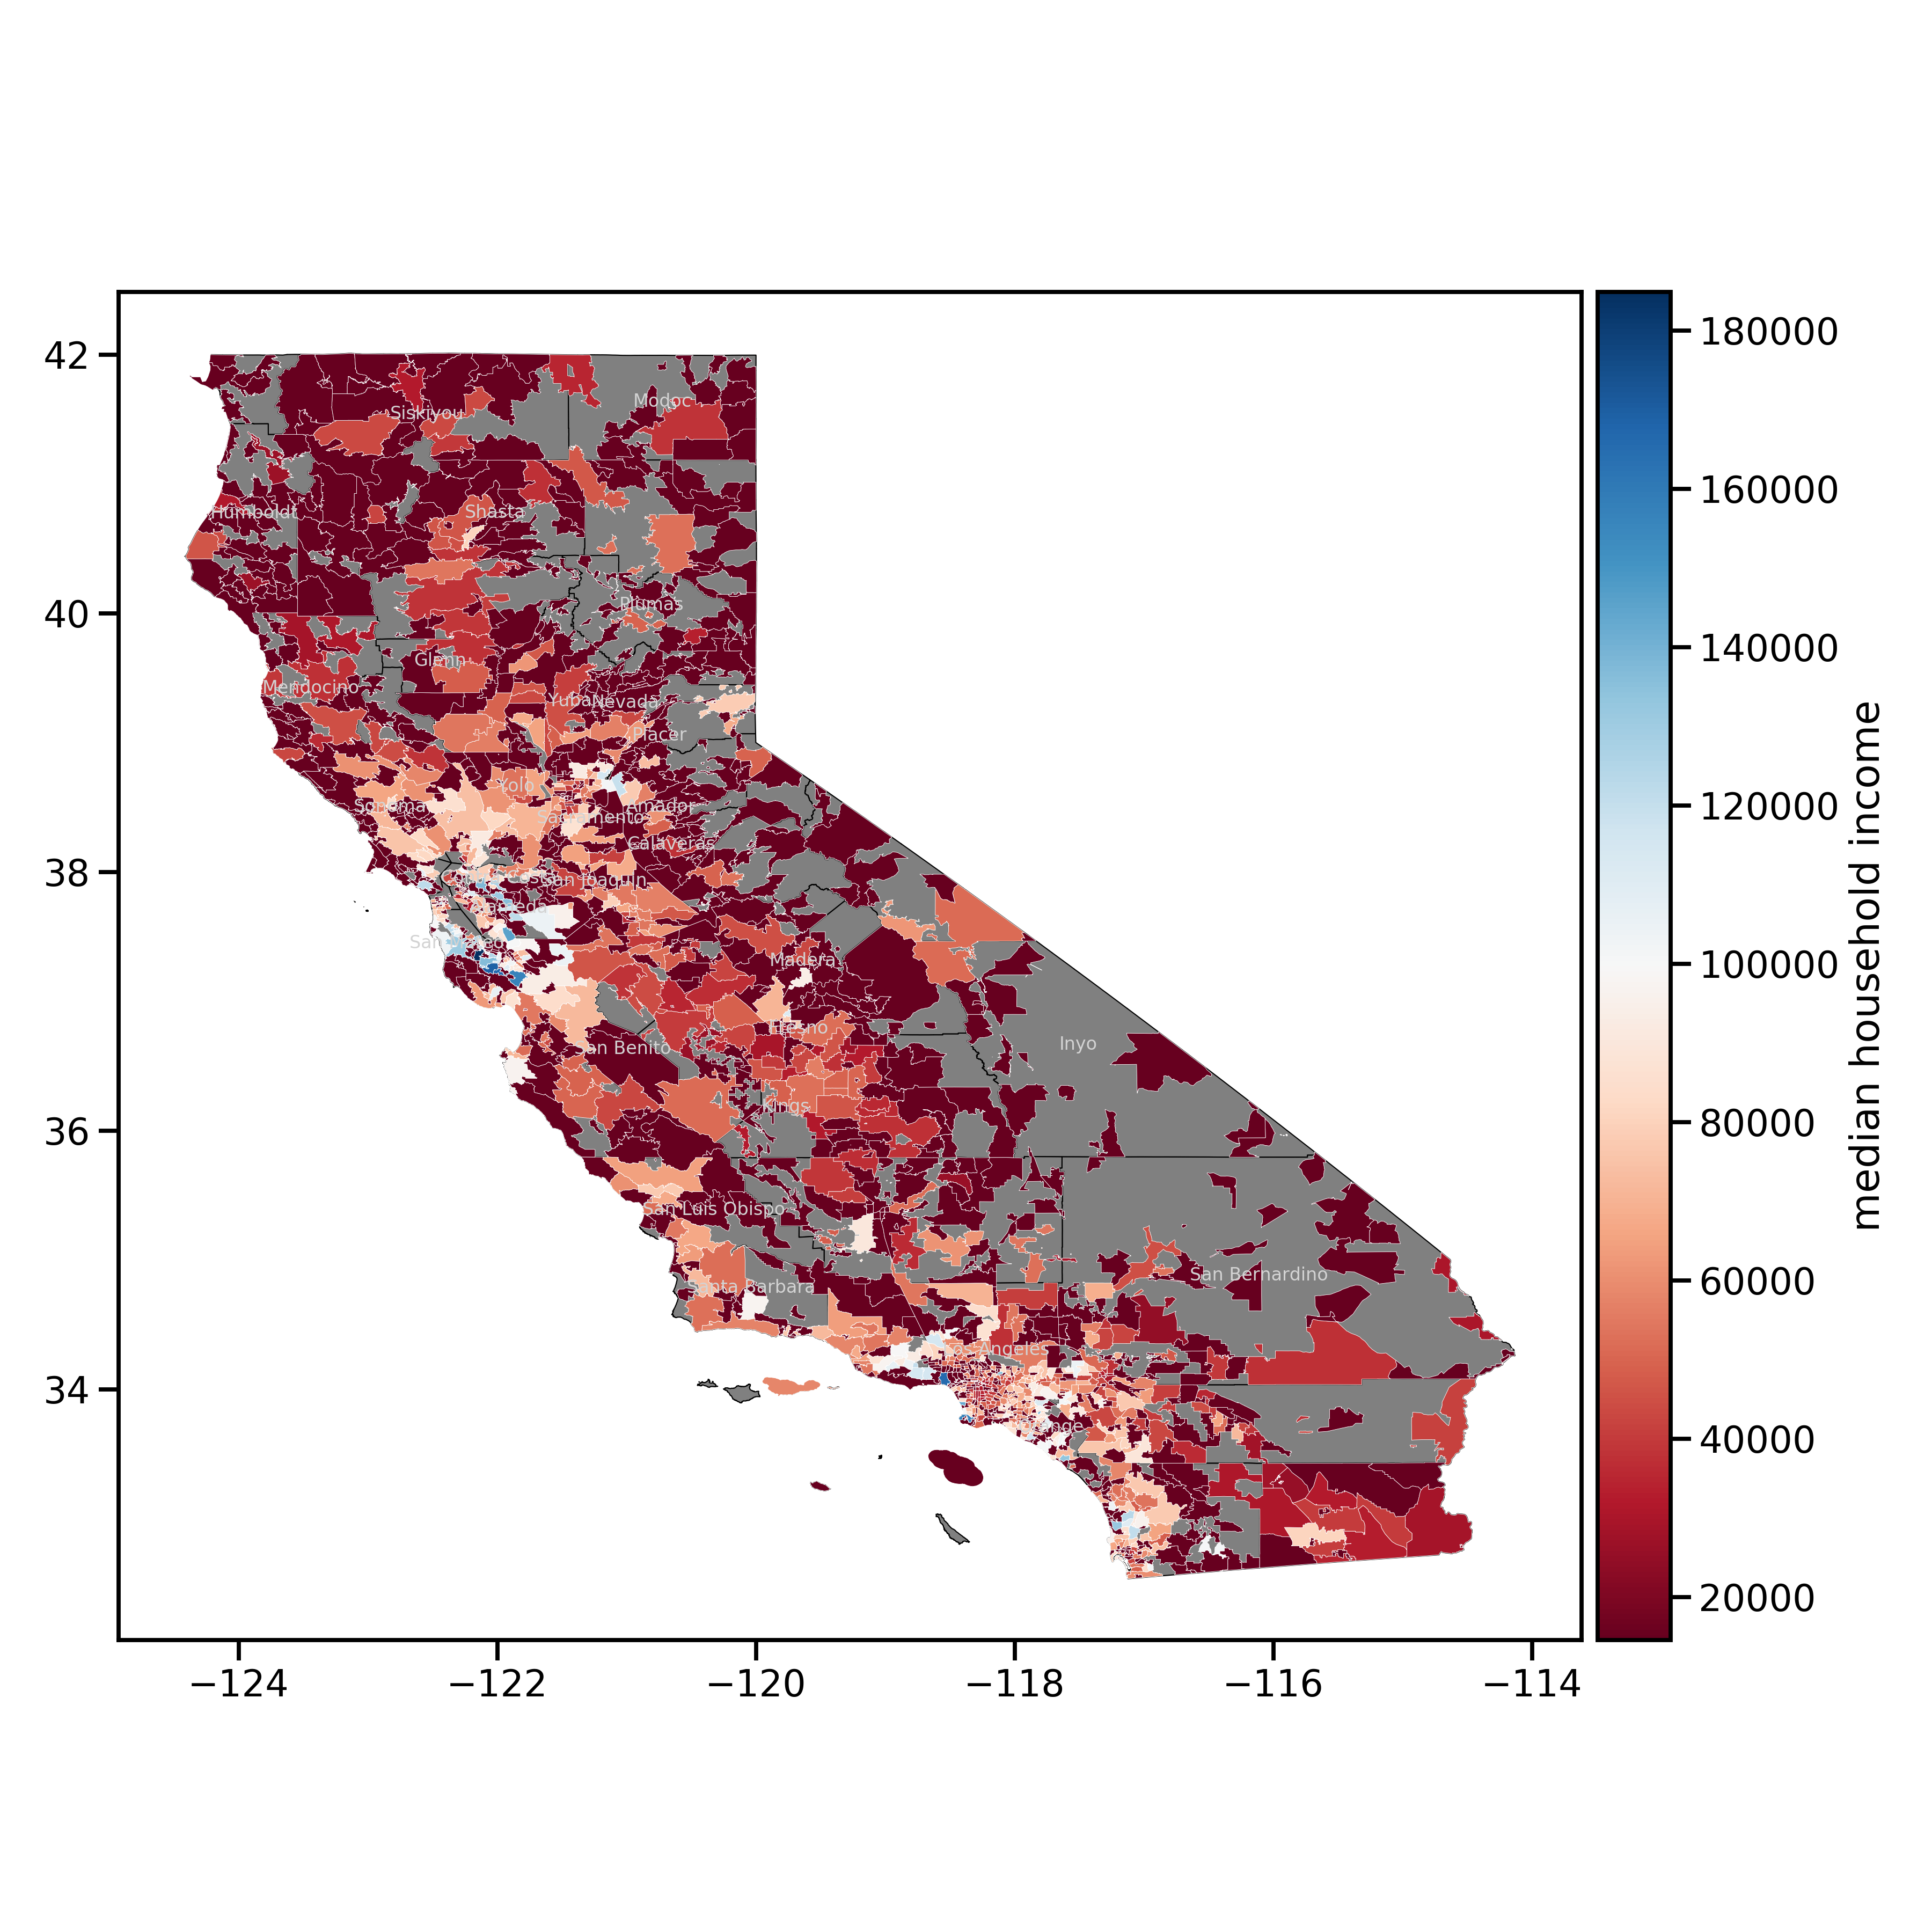
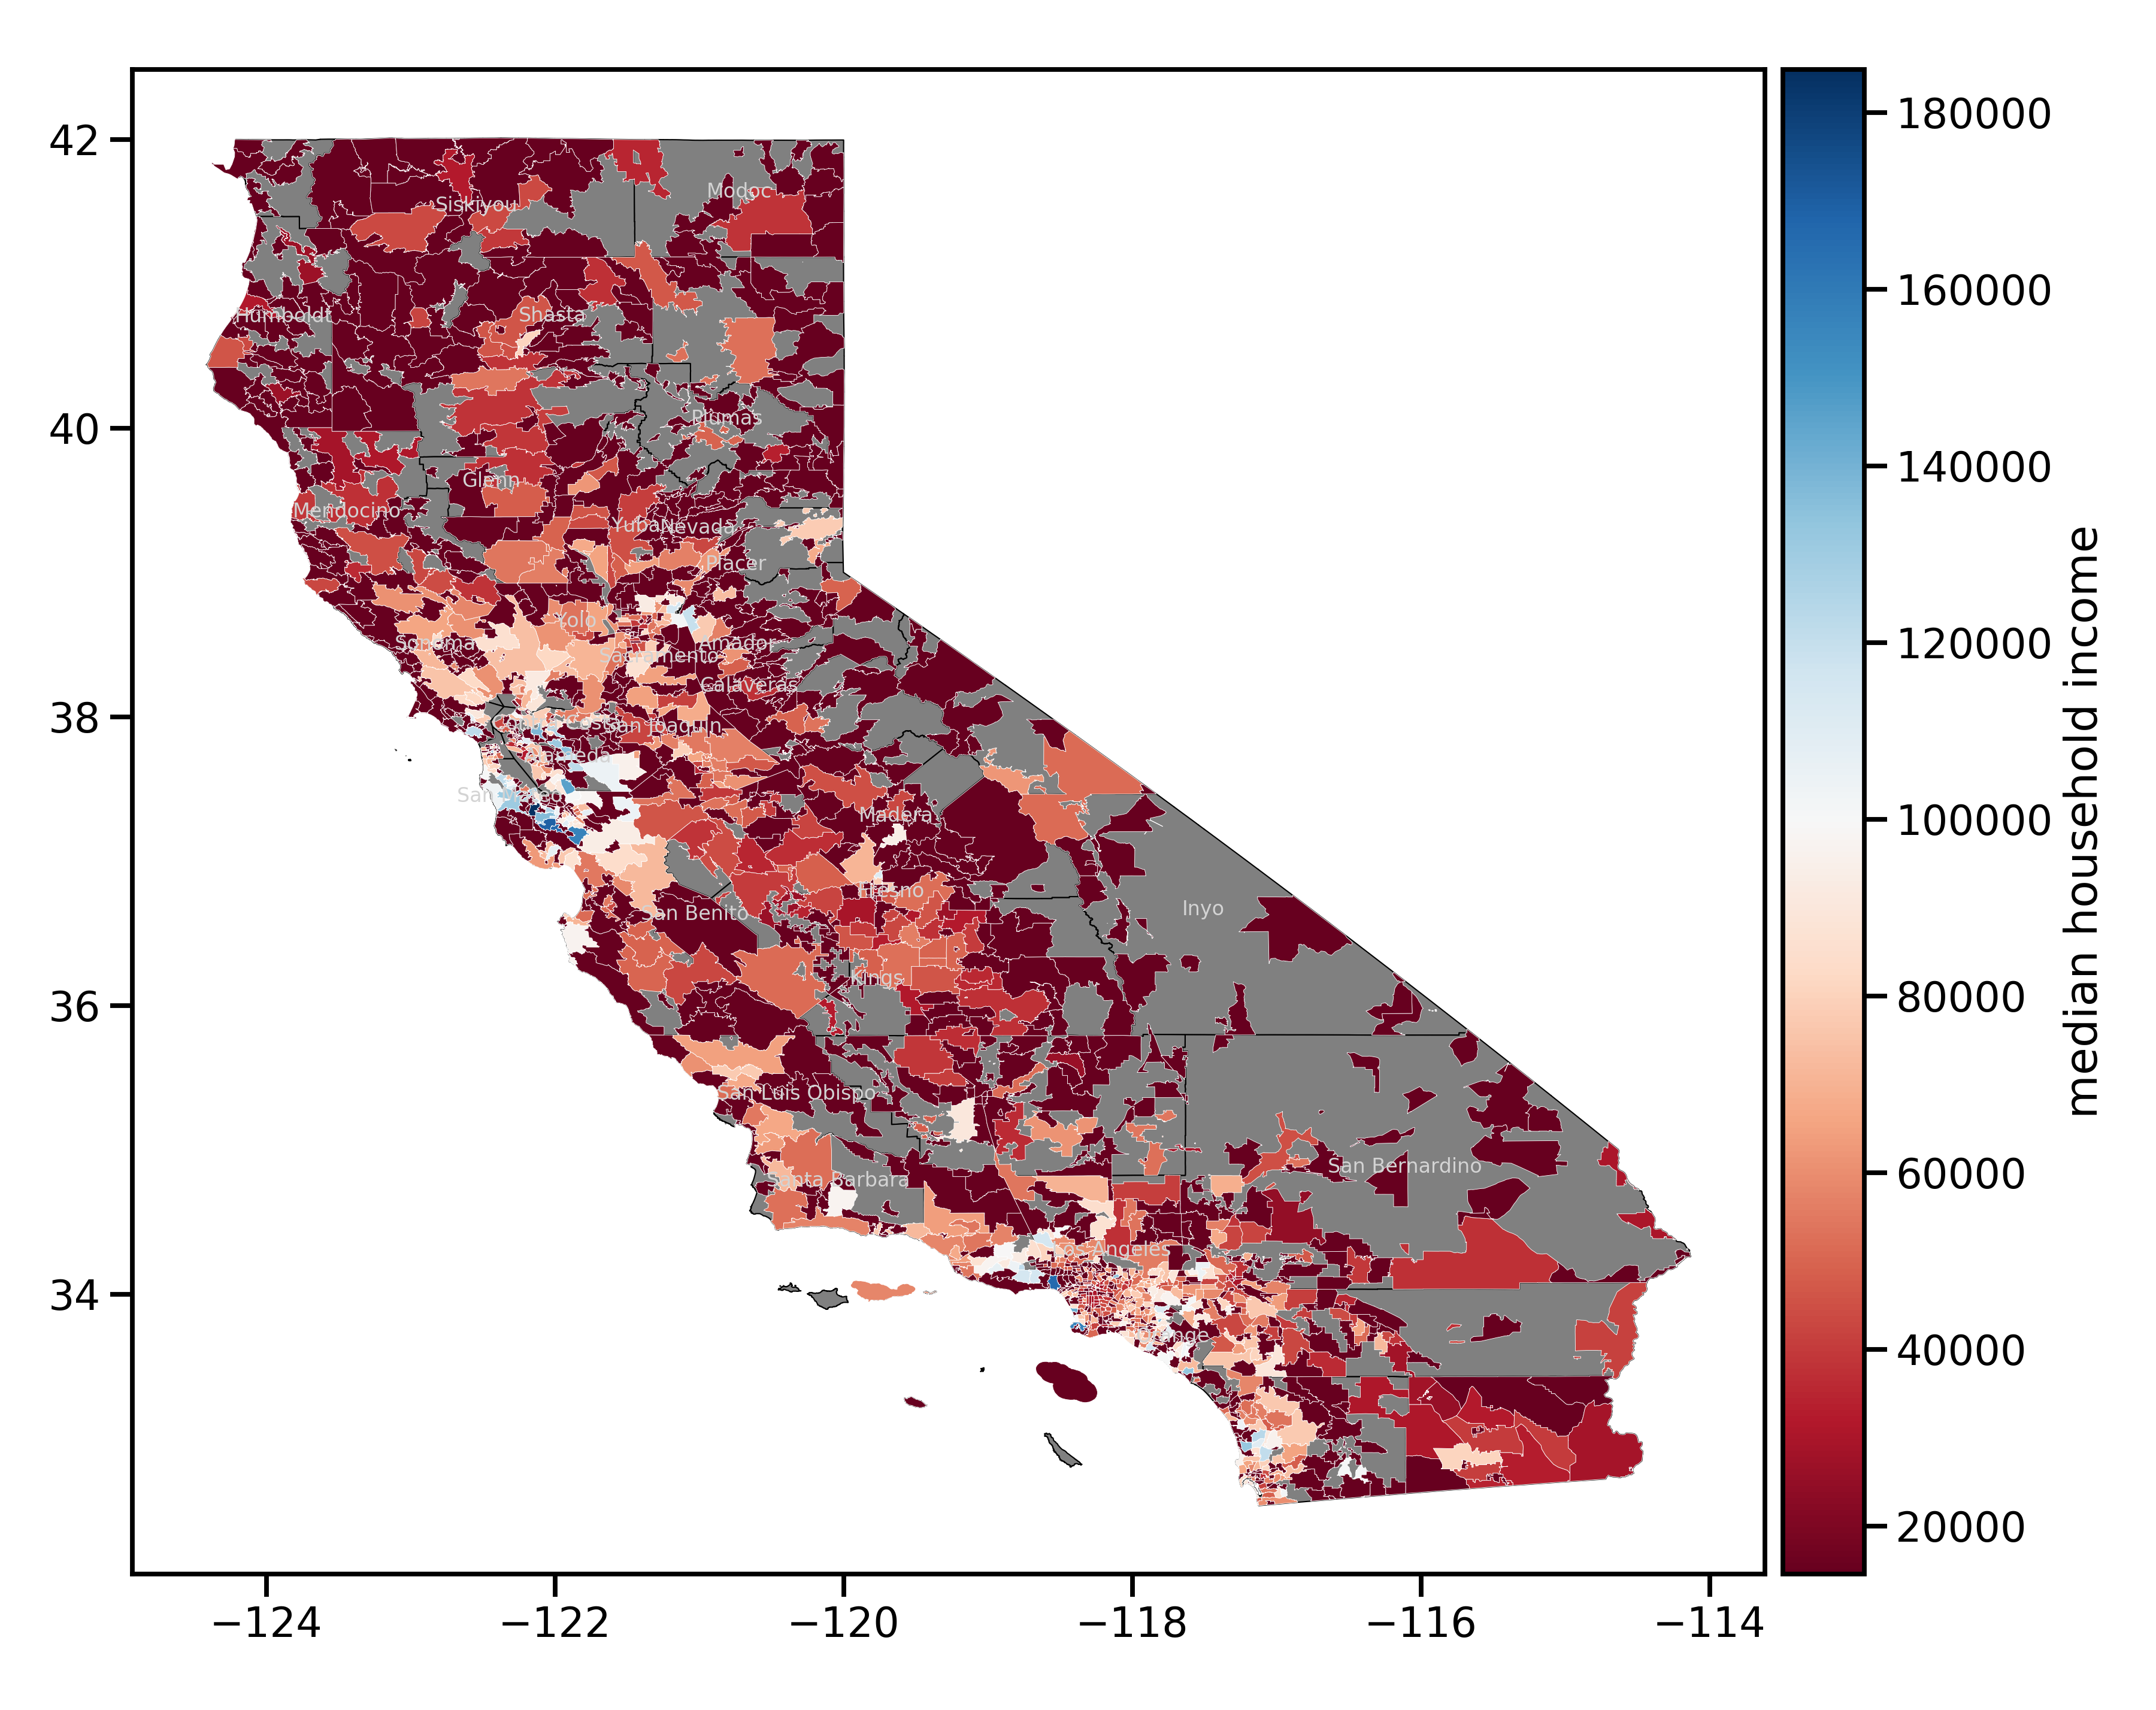
automatic update

diff --git a/_projects/0_CA-SPLICE.md b/_projects/0_CA-SPLICE.md
@@ -43,14 +43,16 @@ To be eligible for University of California (UC) or California State System (CSU
 
 Exploration and visualization of data provides context and assists in model interpretability. Here I assess the geographic representation of schools and the distribution of school and community features before modeling.
 
-**Geographic representation of schools**
+*Geographic representation of schools*
+<br>
 The dataset contained schools that reflected the state’s population density. The county with the most schools is Los Angeles with 234, comprising 24.2% of the dataset. Next was San Diego county with 73 schools (7.5% of the data). This was followed by Orange (59 schools), Riverside (52), San Bernardino (52), Sacramento (43), Santa Clara (42), and Alameda (32 schools). Overall, 55 counties in the state were represented with the majority (34) containing fewer than ten schools represented in the data. District representation of schools matched the geographic distribution, with the largest Los Angeles Unified (114 schools) having much more than the second-biggest district San Diego Unified (23). Other large districts included East Side Union High in San Jose (15), San Francisco Unified (13), and Sweetwater Union High in the South Bay of San Diego County (12). However, most districts were very small--204 of the 378 districts were represented by only one school.
 
-![png](/assets/2020-05-25-CA-ed-study/Map_school_exceptionalSPLICE.png)
+![png](/assets/2020-05-25-CA-ed-study/Map_school_exceptionalSPLICE_CA.png)
 
 From map inspection and quantitative analysis, a large proportion of exceptional SPLICE schools are located in the San Francisco Bay Area counties (Alameda, Contra Costa, Marin, Napa, San Francisco, San Mateo, Santa Clara, Solano, and Sonoma) or Southern California coastal counties (San Diego, Orange, Los Angeles) compared to the rest of the state. The percentage of schools that are in these two areas represent 54.1% of the entire state. However, 87.0% of schools with exceptional SPLICE are in the nine Bay Area counties or three Southern California coastal counties. (The figures are similar when counting students instead of schools.) This point will be re-visited in the [Discussion section](#discussion).
 
-**School features**
+*School features*
+<br>
 Enrollment was one metric for filtering (see [Methods](#methods)). Out of the remaining schools, the total enrollment average is 1547 but the high standard deviation of 897 is an indication of school size variablity. The smallest school had 90 students (Round Valley High in Mendocino County) while the largest enrolled 8000 (Opportunities for Learning - Baldwin Park). Interestingly, distribution of total enrollment and the number of enrolled seniors [shows bimodality](/assets/2020-05-25-CA-ed-study/enrollment_E12.png).
 
 With regards to student demographics, the average percentage of under-represented minorities is 60% (SD 27.5%) and the percentage of low-income students was 57% (SD 25.7%) The correlation between these two metrics is highly correlated (Pearson r of 0.86).
@@ -59,14 +61,18 @@ Features related to staff included the number of students per teacher (23 +/- 3.
 
 119 schools in the set were designated as a charter school and 99 were magnet; five schools were both magnet and charter.
 
-**Community features**
-
+*Community features*
+<br>
 Census information at the level of zip codes provided insight on an area’s income benefits, industries, health insurance status, employment, worker class, and work commute.
 
 [Local median income](/assets/2020-05-25-CA-ed-study/Local_median_income_dist.png) averages $62,520 (SD of $24,807) across all communities in the dataset. The distribution shows right skewness demonstrating that few communities in the upper ends of income levels. When looking at a map of income, the variability was striking.
+
 ![png](/assets/2020-05-25-CA-ed-study/CA_map_income.png)
+
 I also looked at the predominant industries in a given area, acknowledging that all communities must have a diverse set of occupations. I first determined the average and standard deviation of the percent of workers in each industry category across the dataset. This was followed by calculating the z-statistic for each category and zip code. The industry category with the highest z-statistic for that community was then assigned as representative. Only areas where schools were in the dataset were plotted. (Note that to reduce multicollinearity, the feature associated with percent of workers in the “arts, entertainment, and recreation, and accommodation and food services” was removed prior to model fitting.) 
+
 ![png](/assets/2020-05-25-CA-ed-study/Map_main_industry_CA.png)
+
 The exploration and additional details on income benefits, industry, health insurance status, employment, worker class, and work commute features can be found in the [data visualization notebook](https://github.com/benslack19/CA-ed-study/blob/master/deliver/BL-2b-eda-visualization_b.ipynb). Some community features are discussed further below.
 
 ### Model performance for predicting schools with exceptional SPLICE
@@ -79,7 +85,8 @@ While I assessed multiple evaluation metrics, I optimized for F1 score for both 
 
 ### School and community features of exceptional SPLICE
 
-**Schools features associated with exceptional SPLICE**
+*Schools features important in exceptional SPLICE prediction*
+<br>
 *Student population and test performance.* By far, the top feature with exceptional SPLICE, is the percentage of non-low income students who are college eligible. This feature is positively associated with SPLICE suggesting that academic environments provide benefits across the socioeconomic spectrum of their students. However, a [gap between non-low income students and low income students within a school for college eligibility](/assets/2020-05-25-CA-ed-study/nonLI_vs_LI_gap.png) is still prevalent. A [school’s percentage of low-income students (regardless of college eligibility) was not correlated with SPLICE overall](/assets/2020-05-25-CA-ed-study/pct_LI_vs_SPLICE.png), but it was positively associated in predicting schools with exceptional SPLICE. In addition, while the percent of low income students that have tested for both English proficiency and math proficiency were positively associated with exceptional SPLICE, the English test scores had a higher coefficient, suggesting that it is more predictive of the target.
 
 *School size.* Interestingly, smaller schools, but not necessarily smaller class sizes, are common in schools of exceptional SPLICE. Features indicative of overall school size, such as number of enrolled 12th graders (`E12`), enrollment, and student-per-counselor ratio were negatively associated with exceptional SPLICE. However, the ratio of student-per-teacher did not necessarily need to be small and, in fact, shows a small positive correlation with schools that performed highly for SPLICE.
@@ -88,10 +95,12 @@ While I assessed multiple evaluation metrics, I optimized for F1 score for both 
 
 *Staff features.* An unexpected finding with regards to staff features is that schools with exceptional SPLICE tended to have a lower percentage of teachers who are certified, especially since this metric is [heavily left-skewed](/assets/2020-05-25-CA-ed-study/staff_info.png). Non-significant features to the model also included the percent of teachers who have 3 or more years of experience and average teacher salary, suggesting that schools with exceptional SPLICE do not necessarily have the most experienced and best paid teachers.
 
-**Community features of a school associated with exceptional SPLICE**
+*Community features of a school associated with exceptional SPLICE prediction*
+<br>
 Economic characteristics of a school’s community is taken from census data. This data was obtained at the zip code level and not directly from the associated school population. This means that students and their families may live in one zip code and attend schools or work in another zip code. With these caveats noted, the assumption here is that the features are largely reflective of the community. One observation from the analysis is that schools with exceptional SPLICE are in an area where many commuting workers took public transportation instead of driving alone. Exceptional SPLICE schools were negatively associated with communities where the predominant industry involved agriculture, forestry, fishing and hunting, and mining or retail trade. This is reflective of the [locations of schools with exceptional SPLICE](/assets/2020-05-25-CA-ed-study/Map_school_exceptionalSPLICE.png) and an [area’s predominant industry](/assets/2020-05-25-CA-ed-study/Map_main_industry_CA.png).
 
-**Features that had low predictive value or statistical significance in MW test**
+*Features that had low predictive value or statistical significance in MW test*
+<br>
 Most features related to income benefits (local median income, percent of community receiving supplemental security income, etc.) were not predictive, but a percent of a community receiving social security benefits had a significant MW p-value and logistic regression coefficient of -0.094 (just under the 0.10 absolute value threshold). Most features related to health insurance coverage (percent of community with public health insurance coverage and percent of children without health insurance coverage) were not predictive or significantly different. Interestingly, for the percentage of a community with health insurance, the MW test shows no statistical significance between the negative and positive classes for exceptional SPLICE but the logistic regression coefficient was -0.30. Magnet schools were not positively or negatively associated with exceptional SPLICE. Ethnic composition of a school, represented as the percent of under-represented minorities, had a LR coefficient of 0.239 but was not significant by MW.
 
 ## Discussion: Placing the results in context
@@ -113,6 +122,6 @@ The questions of what it takes to support low income students to succeed academi
 Continuing to probe what factors would help low income students succeed and implementing those that are actionable can help address an important societal problem.
 
 ## Acknowledgements
-While this project was started before my [Insight Data Science Fellowship](https://insightfellows.com), I thank the Insight SV 20A cohort for their teachings, feedback, code sharing, and support as I finished this project. I am also grateful to my wife for her feedback and encouragement in posting this article. I appreciate in advance any additional questions and comments.
+While this project was started before my [Insight Data Science Fellowship](https://insightfellows.com), I thank the Insight SV 20A cohort for their teachings, feedback, code sharing, and support as I finished this project. I am also grateful to my wife for her feedback and encouragement in posting this article. Finally, I appreciate in advance any additional questions and comments.
 
 The [project repository](https://github.com/benslack19/CA-ed-study) contains Jupyter notebooks where additional figures can be found. This article was first posted on this blog on May 25, 2020. I can be reached at ben.lacar AT gmail.com.